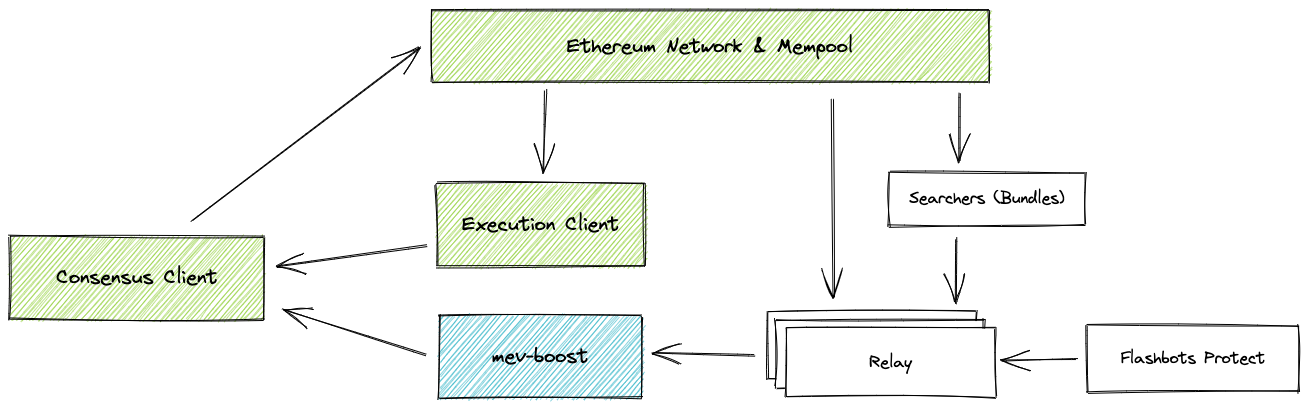
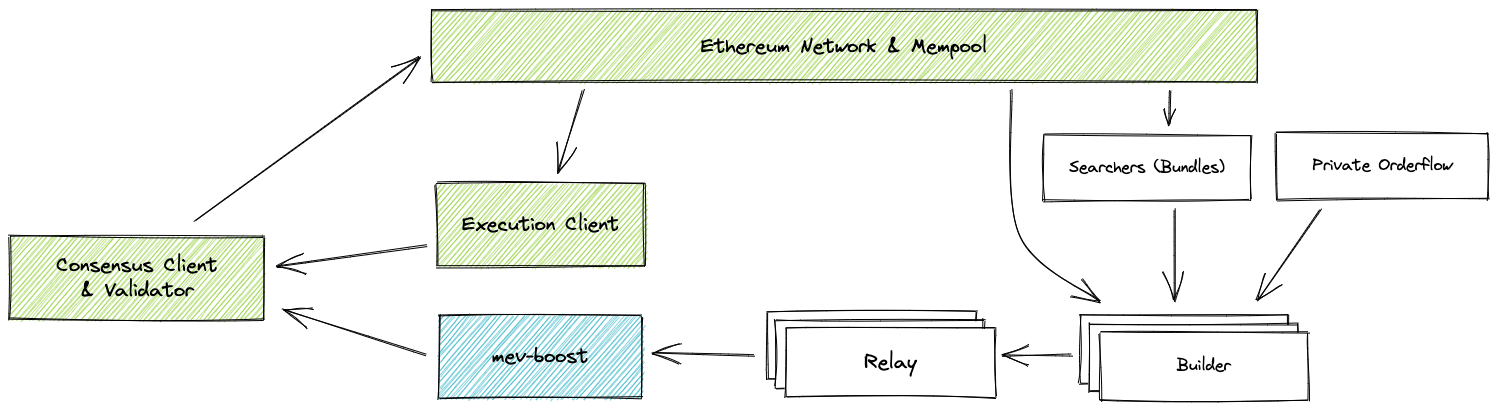
updated integration diagram (#114)
* updated integration diagram

* added docker hub link to readme

diff --git a/README.md b/README.md
@@ -4,11 +4,22 @@
 [![Discord](https://img.shields.io/discord/755466764501909692)](https://discord.gg/7hvTycdNcK)
 [![Contributor Covenant](https://img.shields.io/badge/Contributor%20Covenant-2.1-4baaaa.svg)](CODE_OF_CONDUCT.md)
 
-A service that allows Ethereum Consensus Layer (CL) clients to outsource block construction to third party block builders in addition to execution clients. See [ethresearch post](https://ethresear.ch/t/mev-boost-merge-ready-flashbots-architecture/11177/) for the high level architecture and **[`docs/specification.md`](https://github.com/flashbots/mev-boost/blob/main/docs/specification.md)** for the specification and implementation details.
+A service that allows Ethereum Consensus Layer (CL) clients to outsource block construction to third party block builders in addition to execution clients.
+
+See also:
+
+* **[Builder API specification](https://github.com/ethereum/execution-apis/pull/209/files)**
+* [Docker image](https://hub.docker.com/r/flashbots/mev-boost/tags)
+
+---
+
+### System diagram
 
 ![mev-boost service integration overview](https://raw.githubusercontent.com/flashbots/mev-boost/main/docs/mev-boost-integration-overview.png)
 
-v0.2 request flow:
+([source](https://excalidraw.com/#json=VHl16agggXE1wIcnRD2RP,1irpGwhVpEgt6k05u-MbaQ))
+
+### Request sequence
 
 ```mermaid
 sequenceDiagram
@@ -17,23 +28,23 @@ sequenceDiagram
     participant relays
     Title: Block Proposal
     Note over consensus: sign fee recipient announcement
-    consensus->>mev_boost: builder_registerValidator
-    mev_boost->>relays: builder_registerValidator
+    consensus->>mev_boost: builder_registerValidatorV1
+    mev_boost->>relays: builder_registerValidatorV1
     Note over consensus: wait for allocated slot
-    consensus->>mev_boost: builder_getHeader
-    mev_boost->>relays: builder_getHeader
-    relays-->>mev_boost: builder_getHeader response
+    consensus->>mev_boost: builder_getHeaderV1
+    mev_boost->>relays: builder_getHeaderV1
+    relays-->>mev_boost: builder_getHeaderV1 response
     Note over mev_boost: verify response matches expected
     Note over mev_boost: select best payload
-    mev_boost-->>consensus: builder_getHeader response
+    mev_boost-->>consensus: builder_getHeaderV1 response
     Note over consensus: sign the block
-    consensus->>mev_boost: builder_getPayload
+    consensus->>mev_boost: builder_getPayloadV1
     Note over mev_boost: identify payload source
-    mev_boost->>relays: builder_getPayload
+    mev_boost->>relays: builder_getPayloadV1
     Note over relays: validate signature
-    relays-->>mev_boost: builder_getPayload response
+    relays-->>mev_boost: builder_getPayloadV1 response
     Note over mev_boost: verify response matches expected
-    mev_boost-->>consensus: builder_getPayload response
+    mev_boost-->>consensus: builder_getPayloadV1 response
 ```
 
 ## Implementation Plan

diff --git a/docs/specification.md b/docs/specification.md
@@ -1,1 +1,1 @@
-# Builer API specification moved to [https://github.com/ethereum/execution-apis/pull/209/files](https://github.com/ethereum/execution-apis/pull/209/files)
+Builer API specification moved to [https://github.com/ethereum/execution-apis/pull/209/files](https://github.com/ethereum/execution-apis/pull/209/files)
